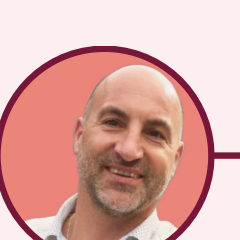
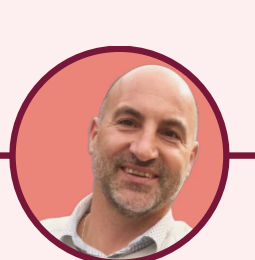
Fix team photos cropping and centering

diff --git a/src/app/page.tsx b/src/app/page.tsx
@@ -173,13 +173,13 @@ export default async function HomePage() {
         <p className="section-sub">Une question ? Contactez directement l&apos;un de nos animateurs.</p>
         <div style={{ display: 'grid', gridTemplateColumns: 'repeat(auto-fit, minmax(220px, 1fr))', gap: 24, maxWidth: 800, margin: '0 auto' }}>
           {[
-            { prenom: 'Patricia', nom: 'GRATAS', email: 'pgratas@dynabuy-oxycom.fr', tel: '06.19.67.62.23', photo: '/team-patricia.png' },
-            { prenom: 'Michaël', nom: 'GIMENEZ', email: 'mgimenez@dynabuy-oxycom.fr', tel: '06.61.45.23.56', photo: '/team-michael.png' },
-            { prenom: 'Tanguy', nom: 'BARICAULT', email: 'tbaricault@dynabuy-oxycom.fr', tel: '07.85.71.04.52', photo: '/team-tanguy.png' },
-          ].map(({ prenom, nom, email, tel, photo }) => (
+            { prenom: 'Patricia', nom: 'GRATAS', email: 'pgratas@dynabuy-oxycom.fr', tel: '06.19.67.62.23', photo: '/team-patricia.png', pos: 'center 45%' },
+            { prenom: 'Michaël', nom: 'GIMENEZ', email: 'mgimenez@dynabuy-oxycom.fr', tel: '06.61.45.23.56', photo: '/team-michael.png', pos: 'center 40%' },
+            { prenom: 'Tanguy', nom: 'BARICAULT', email: 'tbaricault@dynabuy-oxycom.fr', tel: '07.85.71.04.52', photo: '/team-tanguy.png', pos: 'center 30%' },
+          ].map(({ prenom, nom, email, tel, photo, pos }) => (
             <div key={nom} style={{ background: 'white', borderRadius: 16, padding: '32px 24px 24px', textAlign: 'center', boxShadow: '0 2px 16px rgba(0,0,0,0.07)', border: '1px solid #f0f0f0' }}>
-              <div style={{ width: 90, height: 90, borderRadius: '50%', overflow: 'hidden', margin: '0 auto 16px', boxShadow: '0 0 0 3px white, 0 0 0 5px var(--red)' }}>
-                <Image src={photo} alt={`${prenom} ${nom}`} width={90} height={90} style={{ objectFit: 'cover', width: '100%', height: '100%' }} />
+              <div style={{ width: 100, height: 100, borderRadius: '50%', overflow: 'hidden', margin: '0 auto 16px', boxShadow: '0 0 0 3px white, 0 0 0 5px var(--red)' }}>
+                <Image src={photo} alt={`${prenom} ${nom}`} width={100} height={100} style={{ objectFit: 'cover', objectPosition: pos, width: '100%', height: '100%' }} />
               </div>
               <div style={{ fontWeight: 800, fontSize: '1.05rem', color: 'var(--dark)', marginBottom: 14 }}>{prenom} {nom}</div>
               <div style={{ display: 'flex', flexDirection: 'column', gap: 8, alignItems: 'center' }}>
